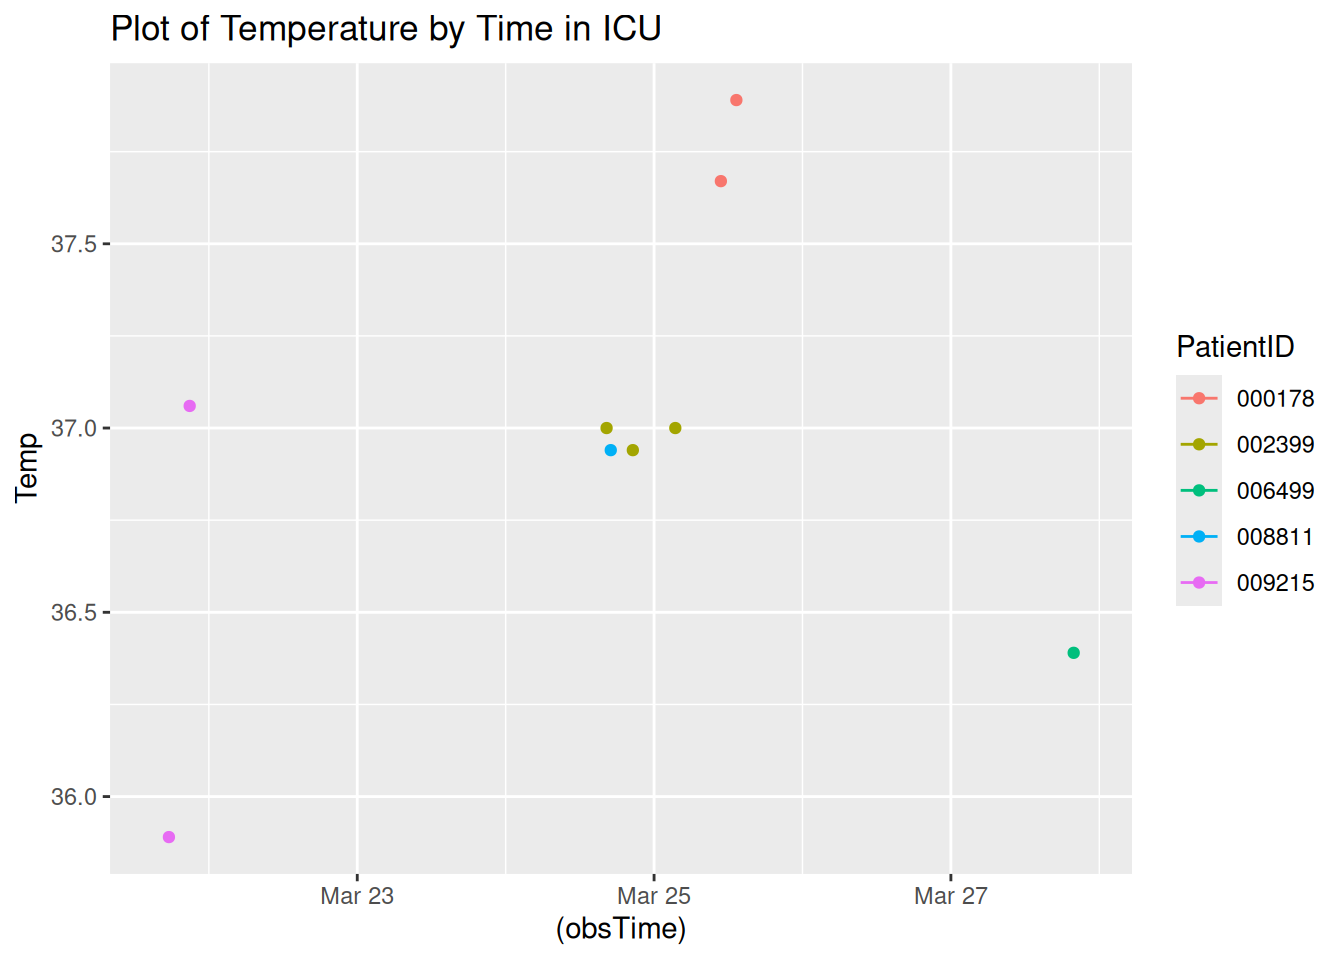
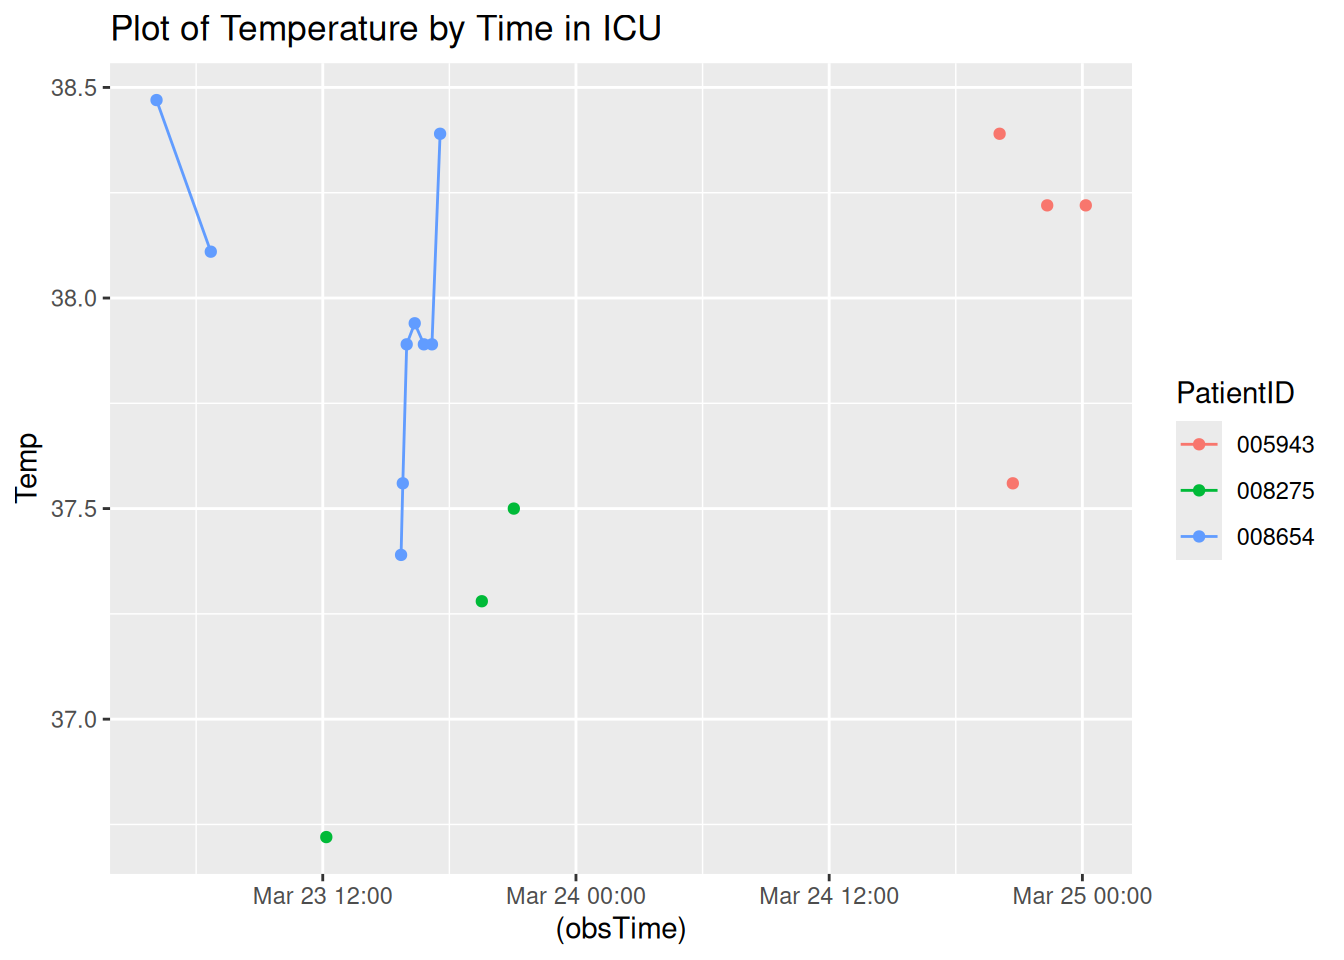
Updated report

diff --git a/A7.html b/A7.html
@@ -116,7 +116,7 @@ pre > code.sourceCode > span > a:first-child::before { text-decoration: underlin
 </div>
 <div class="sourceCode cell-code" id="cb4"><pre class="sourceCode r code-with-copy"><code class="sourceCode r"><span id="cb4-1"><a href="#cb4-1" aria-hidden="true" tabindex="-1"></a><span class="fu">toc</span>()</span></code><button title="Copy to Clipboard" class="code-copy-button"><i class="bi"></i></button></pre></div>
 <div class="cell-output cell-output-stdout">
-<pre><code>22.484 sec elapsed</code></pre>
+<pre><code>10.434 sec elapsed</code></pre>
 </div>
 <div class="sourceCode cell-code" id="cb6"><pre class="sourceCode r code-with-copy"><code class="sourceCode r"><span id="cb6-1"><a href="#cb6-1" aria-hidden="true" tabindex="-1"></a><span class="fu">tic</span>()</span>
 <span id="cb6-2"><a href="#cb6-2" aria-hidden="true" tabindex="-1"></a>test1<span class="ot">=</span><span class="fu">makeSepsisDataset</span>(<span class="at">n=</span><span class="dv">50</span>,<span class="at">read_fn =</span> <span class="st">"read_delim"</span>)</span>
@@ -126,7 +126,7 @@ pre > code.sourceCode > span > a:first-child::before { text-decoration: underlin
 </div>
 <div class="sourceCode cell-code" id="cb8"><pre class="sourceCode r code-with-copy"><code class="sourceCode r"><span id="cb8-1"><a href="#cb8-1" aria-hidden="true" tabindex="-1"></a><span class="fu">toc</span>()</span></code><button title="Copy to Clipboard" class="code-copy-button"><i class="bi"></i></button></pre></div>
 <div class="cell-output cell-output-stdout">
-<pre><code>20.399 sec elapsed</code></pre>
+<pre><code>9.433 sec elapsed</code></pre>
 </div>
 <div class="sourceCode cell-code" id="cb10"><pre class="sourceCode r code-with-copy"><code class="sourceCode r"><span id="cb10-1"><a href="#cb10-1" aria-hidden="true" tabindex="-1"></a><span class="co"># n=100</span></span>
 <span id="cb10-2"><a href="#cb10-2" aria-hidden="true" tabindex="-1"></a><span class="fu">tic</span>()</span>
@@ -137,7 +137,7 @@ pre > code.sourceCode > span > a:first-child::before { text-decoration: underlin
 </div>
 <div class="sourceCode cell-code" id="cb12"><pre class="sourceCode r code-with-copy"><code class="sourceCode r"><span id="cb12-1"><a href="#cb12-1" aria-hidden="true" tabindex="-1"></a><span class="fu">toc</span>()</span></code><button title="Copy to Clipboard" class="code-copy-button"><i class="bi"></i></button></pre></div>
 <div class="cell-output cell-output-stdout">
-<pre><code>39.44 sec elapsed</code></pre>
+<pre><code>15.053 sec elapsed</code></pre>
 </div>
 <div class="sourceCode cell-code" id="cb14"><pre class="sourceCode r code-with-copy"><code class="sourceCode r"><span id="cb14-1"><a href="#cb14-1" aria-hidden="true" tabindex="-1"></a><span class="fu">tic</span>()</span>
 <span id="cb14-2"><a href="#cb14-2" aria-hidden="true" tabindex="-1"></a>test1<span class="ot">=</span><span class="fu">makeSepsisDataset</span>(<span class="at">n=</span><span class="dv">100</span>,<span class="at">read_fn =</span> <span class="st">"read_delim"</span>)</span>
@@ -147,7 +147,7 @@ pre > code.sourceCode > span > a:first-child::before { text-decoration: underlin
 </div>
 <div class="sourceCode cell-code" id="cb16"><pre class="sourceCode r code-with-copy"><code class="sourceCode r"><span id="cb16-1"><a href="#cb16-1" aria-hidden="true" tabindex="-1"></a><span class="fu">toc</span>()</span></code><button title="Copy to Clipboard" class="code-copy-button"><i class="bi"></i></button></pre></div>
 <div class="cell-output cell-output-stdout">
-<pre><code>40.646 sec elapsed</code></pre>
+<pre><code>18.116 sec elapsed</code></pre>
 </div>
 <div class="sourceCode cell-code" id="cb18"><pre class="sourceCode r code-with-copy"><code class="sourceCode r"><span id="cb18-1"><a href="#cb18-1" aria-hidden="true" tabindex="-1"></a><span class="co"># n=500</span></span>
 <span id="cb18-2"><a href="#cb18-2" aria-hidden="true" tabindex="-1"></a><span class="fu">tic</span>()</span>
@@ -158,7 +158,7 @@ pre > code.sourceCode > span > a:first-child::before { text-decoration: underlin
 </div>
 <div class="sourceCode cell-code" id="cb20"><pre class="sourceCode r code-with-copy"><code class="sourceCode r"><span id="cb20-1"><a href="#cb20-1" aria-hidden="true" tabindex="-1"></a><span class="fu">toc</span>()</span></code><button title="Copy to Clipboard" class="code-copy-button"><i class="bi"></i></button></pre></div>
 <div class="cell-output cell-output-stdout">
-<pre><code>196.777 sec elapsed</code></pre>
+<pre><code>77.002 sec elapsed</code></pre>
 </div>
 <div class="sourceCode cell-code" id="cb22"><pre class="sourceCode r code-with-copy"><code class="sourceCode r"><span id="cb22-1"><a href="#cb22-1" aria-hidden="true" tabindex="-1"></a><span class="fu">tic</span>()</span>
 <span id="cb22-2"><a href="#cb22-2" aria-hidden="true" tabindex="-1"></a>test1<span class="ot">=</span><span class="fu">makeSepsisDataset</span>(<span class="at">n=</span><span class="dv">500</span>,<span class="at">read_fn =</span> <span class="st">"read_delim"</span>)</span>
@@ -168,7 +168,7 @@ pre > code.sourceCode > span > a:first-child::before { text-decoration: underlin
 </div>
 <div class="sourceCode cell-code" id="cb24"><pre class="sourceCode r code-with-copy"><code class="sourceCode r"><span id="cb24-1"><a href="#cb24-1" aria-hidden="true" tabindex="-1"></a><span class="fu">toc</span>()</span></code><button title="Copy to Clipboard" class="code-copy-button"><i class="bi"></i></button></pre></div>
 <div class="cell-output cell-output-stdout">
-<pre><code>201.449 sec elapsed</code></pre>
+<pre><code>92.778 sec elapsed</code></pre>
 </div>
 </div>
 <p><strong>Task 3</strong></p>
@@ -194,7 +194,7 @@ pre > code.sourceCode > span > a:first-child::before { text-decoration: underlin
 <span id="cb28-4"><a href="#cb28-4" aria-hidden="true" tabindex="-1"></a></span>
 <span id="cb28-5"><a href="#cb28-5" aria-hidden="true" tabindex="-1"></a><span class="fu">Sys.time</span>()</span></code><button title="Copy to Clipboard" class="code-copy-button"><i class="bi"></i></button></pre></div>
 <div class="cell-output cell-output-stdout">
-<pre><code>[1] "2025-03-21 15:32:27 UTC"</code></pre>
+<pre><code>[1] "2025-03-21 16:32:23 UTC"</code></pre>
 </div>
 <div class="sourceCode cell-code" id="cb30"><pre class="sourceCode r code-with-copy"><code class="sourceCode r"><span id="cb30-1"><a href="#cb30-1" aria-hidden="true" tabindex="-1"></a>dfnew <span class="ot">&lt;-</span> df <span class="sc">%&gt;%</span></span>
 <span id="cb30-2"><a href="#cb30-2" aria-hidden="true" tabindex="-1"></a>  <span class="fu">subset</span>(SepsisLabel<span class="sc">==</span><span class="dv">1</span>)</span>
@@ -223,49 +223,31 @@ pre > code.sourceCode > span > a:first-child::before { text-decoration: underlin
 </thead>
 <tbody>
 <tr class="odd">
-<td style="text-align: left;">000178</td>
-<td style="text-align: right;">96</td>
-<td style="text-align: right;">102</td>
-<td style="text-align: right;">NA</td>
-<td style="text-align: right;">16</td>
-<td style="text-align: right;">1</td>
-<td style="text-align: left;">2025-03-25 15:03:01</td>
-</tr>
-<tr class="even">
-<td style="text-align: left;">002399</td>
-<td style="text-align: right;">88</td>
+<td style="text-align: left;">005943</td>
 <td style="text-align: right;">80</td>
-<td style="text-align: right;">NA</td>
-<td style="text-align: right;">23</td>
+<td style="text-align: right;">114</td>
+<td style="text-align: right;">38.22</td>
+<td style="text-align: right;">17</td>
 <td style="text-align: right;">1</td>
-<td style="text-align: left;">2025-03-25 06:25:52</td>
-</tr>
-<tr class="odd">
-<td style="text-align: left;">006499</td>
-<td style="text-align: right;">151</td>
-<td style="text-align: right;">NA</td>
-<td style="text-align: right;">NA</td>
-<td style="text-align: right;">NA</td>
-<td style="text-align: right;">1</td>
-<td style="text-align: left;">2025-03-27 21:48:49</td>
+<td style="text-align: left;">2025-03-25 00:09:39</td>
 </tr>
 <tr class="even">
-<td style="text-align: left;">008811</td>
-<td style="text-align: right;">77</td>
-<td style="text-align: right;">64</td>
-<td style="text-align: right;">NA</td>
-<td style="text-align: right;">13</td>
+<td style="text-align: left;">008275</td>
+<td style="text-align: right;">53</td>
+<td style="text-align: right;">86</td>
+<td style="text-align: right;">37.50</td>
+<td style="text-align: right;">26</td>
 <td style="text-align: right;">1</td>
-<td style="text-align: left;">2025-03-24 20:21:45</td>
+<td style="text-align: left;">2025-03-23 21:03:17</td>
 </tr>
 <tr class="odd">
-<td style="text-align: left;">009215</td>
-<td style="text-align: right;">7</td>
-<td style="text-align: right;">94</td>
-<td style="text-align: right;">37.06</td>
-<td style="text-align: right;">19</td>
+<td style="text-align: left;">008654</td>
+<td style="text-align: right;">51</td>
+<td style="text-align: right;">91</td>
+<td style="text-align: right;">38.39</td>
+<td style="text-align: right;">14</td>
 <td style="text-align: right;">1</td>
-<td style="text-align: left;">2025-03-21 20:54:07</td>
+<td style="text-align: left;">2025-03-23 17:33:40</td>
 </tr>
 </tbody>
 </table>
